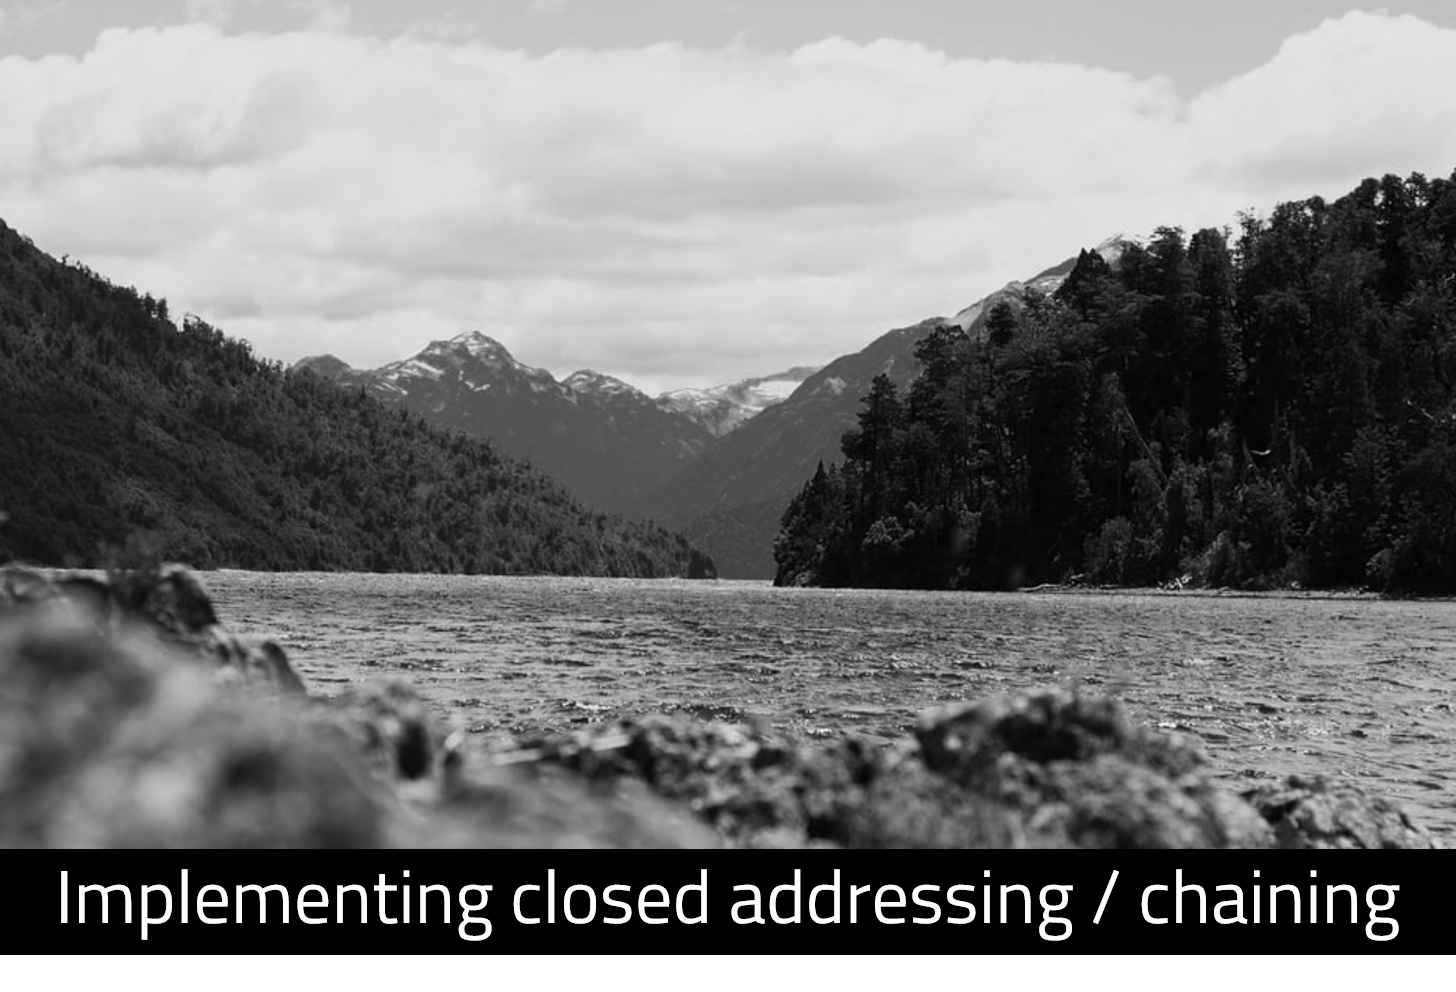
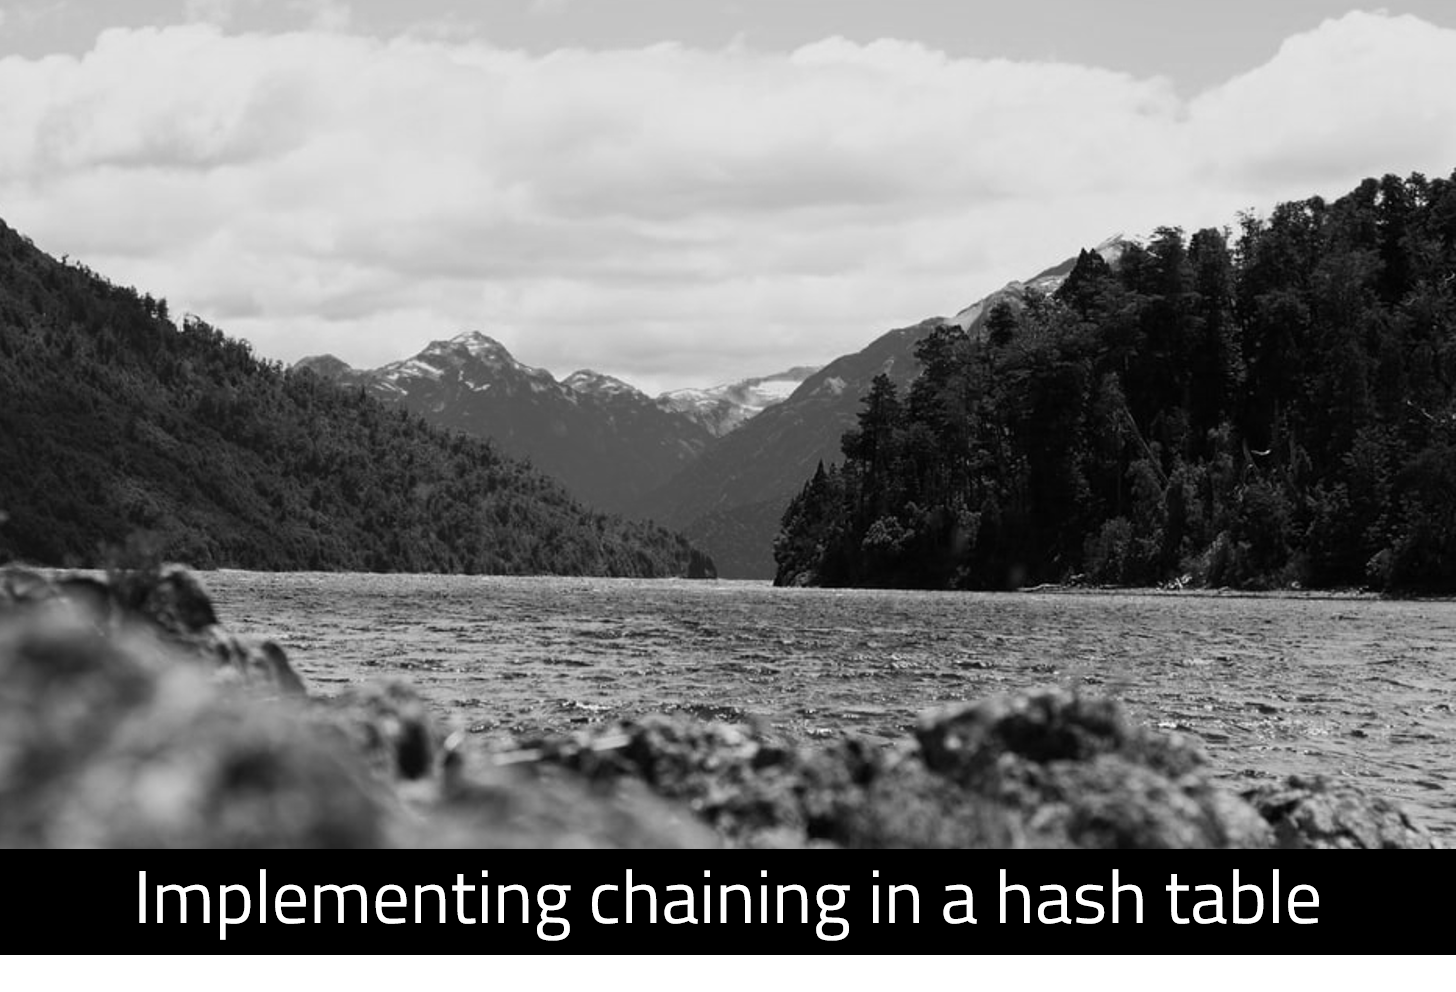
adding post 7

Changed region(s): [[0.0309, 0.875, 0.9581, 0.9688]]

diff --git a/src/posts/007_ChainingImplementation.md b/src/posts/007_ChainingImplementation.md
@@ -1,0 +1,257 @@
+---
+title: 'Implementing closed addressing'
+date: 2020-05-18 16:34:00
+author: 'Aneesh Mistry'
+featuredImage: ../images/007_Bariloche.png
+subtitle: 'A demonstration how a hash function can be designed and written to implement chaining / closed addressing'
+time: '8'
+tags:
+- Java
+- Data Structures
+---
+<br>
+<strong>Key Takeaways</strong><br>
+&#8226; Create a hash table that uses chaining to resolve hash collisions.<br>
+&#8226; Understand how get(), put() and remove() functions can work in the LinkedList.<br>
+
+<br>
+<h4>Chaining in a HashTable</h4>
+<p>
+Chaining, also known as closed addressing, is a technique used in with hash tables and has hash maps to efficiently store the value of keys that have the same hash value.
+Please visit my <a target="_blank" href="https://aneesh.co.uk/resolving-hash-collisions"><u>blog</u></a> where I explain how open and closed addressing works if you are unfamiliar with open and closed addressing.
+In this post, I will walk through the implementation of closed addressing whereby a hash table will allocate values into a LinkedList for each hash value collision.
+</p>
+
+<h4>Implementing chaining, step by step</h4>
+<p>
+The chained hash table will consist of two classes: <code class="language-java">ChainedHashTable</code>, which will be the hash table, and <code class="language-java">EntryLinkedList</code>, which will be the LinkedList Object appended to each bucket.<br>
+A top-down view of the implementation is below:<br>
+
+![Chained hash table diagram](../../src/images/007chainedDiagram.png)
+
+<br>
+The ChainedHashTable will have four methods:<br>
+&#8226; <strong>put(Key, Value)</strong> to place key-value pairs in the hash table.
+&#8226; <strong>hashFunction(Key)</strong> to calculate the hash value of the key.
+&#8226; <strong>remove(Key)</strong> to remove key-value pairs from the hash table.
+&#8226; <strong>get(Key)</strong> to obtain values from the hash table using the key.
+<br>
+The bucket at each hash table index will consist of a EntryLinkedList which behaves like a LinkedList, but will provide additional functionality for the hash table implementation.<br>
+EntryLinkedList will contain the variables: key (String), value (int) and nextEntryPosition (EntryLinkedList). <code class="language-java">nextEntryPosition</code> will be used to create additional values in each bucket.
+</p>
+<strong>Class: EntryLinkedList</strong>
+<p>
+
+The EntryLinkedList constructor will instantiate the key, value and nextEntryPosition.
+There are getters and setters for the value and nextEntryPosition, and getter for the key.<br>
+
+```java{numberLines: true}
+
+public class EntryLinkedList {
+
+    private String key;
+    private int value;
+    private EntryLinkedList nextEntryPosition;
+
+    EntryLinkedList(String key, int value){
+        this.key = key;
+        this.value = value;
+        this.nextEntryPosition = null;
+    }
+
+    public String getKey() {
+        return key;
+    }
+
+    public int getValue() {
+        return value;
+    }
+
+    public void setValue(int value) {
+        this.value = value;
+    }
+
+    public EntryLinkedList getNextEntryPosition() {
+        return nextEntryPosition;
+    }
+
+    public void setNextEntryPosition(EntryLinkedList nextEntryPosition) {
+        this.nextEntryPosition = nextEntryPosition;
+    }
+}
+
+```
+
+</p>
+<br>
+<strong>Class: ChainedHashTable</strong>
+<p>
+The ChainedHashTable will define the number of buckets in its array and instantiate each to be null.
+<br>
+
+```java{numberLines: true}
+  private static final int BUCKETS = 16;
+    EntryLinkedList[] entryList;
+
+    ChainedHashTable(){
+        entryList = new EntryLinkedList[BUCKETS];
+        for(int i = 0; i< BUCKETS; i++){
+            entryList[i] = null;
+        }
+    }
+```
+
+<br>
+The method hashFunction will be used to calculate the hash value of the key. The method will calculate the modulo for the ascii value of the String against the table size:<br>
+
+```java{numberLines: true}
+public static int hashFunction(String key){
+
+        int asciiValue = 0;
+
+        for(int i =0; i<key.length(); i++){
+            char c = key.charAt(i);
+            asciiValue = asciiValue + (int)c;
+        }
+       
+        int hashValue = Math.round(asciiValue % BUCKETS);
+
+        return hashValue;
+    }
+```
+<br>
+To add a new key and value into the hash table, the put(Key, Value) function is used.<br>
+In the code below, the hash value is calculated on line 2. An if statement will check if there already exists an EntryLinkedList Object in the hash value index of the array. <br>
+If there is no Object, it will create a new EntryLinkedList and populate its first position with the value (line 5). If there already exists an EntryLinkedList, the method will loop 
+over the existing list to either replace the value of the existing key (line 15), or define the next entry into the EntryLinkedList (line 18).
+
+```java{numberLines: true}
+ public void put(String key, int value){
+        int hashValue = hashFunction(key);
+
+        if(entryList[hashValue] == null){
+            entryList[hashValue] = new EntryLinkedList(key, value);
+        }
+        else{
+            EntryLinkedList hashValueList = entryList[hashValue];
+
+            while (hashValueList.getNextEntryPosition() != null && hashValueList.getKey() != key){
+                hashValueList = hashValueList.getNextEntryPosition();
+            }
+
+            if (hashValueList.getKey() == key) {
+                hashValueList.setValue(value);
+            }
+            else {
+                hashValueList.setNextEntryPosition(new EntryLinkedList(key, value));
+            }
+        }
+    }
+```
+<br>
+The get method will be used to obtain a value from the EntryLinkedList that is stored within the ChainedHashTable. The get method will return -1 if the key 
+is not found within the ChainedHashTable (line 4), otherwise it will loop over the EntryLinkedList and return the key if it is found (line 10).
+
+```java{numberLines: true}
+public int get(String key) {
+        int hashValue = hashFunction(key);
+        if (entryList[hashValue] == null) {
+            System.out.println("cannot find key");
+            return -1;
+        } else {
+            EntryLinkedList hashValueList = entryList[hashValue];
+            while (hashValueList.getNextEntryPosition() != null && hashValueList.getKey() != key) {
+                hashValueList = hashValueList.getNextEntryPosition();
+            }
+            if (hashValueList == null) {
+                return -1;
+            } else {
+                return hashValueList.getValue();
+            }
+        }
+    }
+```
+<br>
+The remove method will be used to remove a key from the EntryLinkedList. The method below will find the key in the ChainedHashTable, identify the previous entry in the LinkedList if it exists
+and then reassign the value of the current EntryLinkedList as what would have proceeded it:
+
+```java{numberLines: true}
+
+   public void remove(String key){
+        int hashValue = hashFunction(key);
+        if(entryList[hashValue] != null){
+            EntryLinkedList previousEntry = null;
+            EntryLinkedList hashValueList = entryList[hashValue];
+            while(hashValueList.getKey() != key && hashValueList.getNextEntryPosition() != null){
+                previousEntry = hashValueList;
+                hashValueList = hashValueList.getNextEntryPosition();
+            }
+            if(hashValueList.getKey() == key){
+                if(previousEntry == null){
+                    entryList[hashValue] = hashValueList.getNextEntryPosition();
+                }
+                else{
+                    previousEntry.setNextEntryPosition(hashValueList.getNextEntryPosition());
+                }
+            }
+        }
+    }
+
+```
+
+
+<br>
+<strong>Pulling it together in the main method</strong>
+<br>
+In the main class, the hash table is tested by creating an instance with entries. An additional method <code class="language-java">printEntryLinkedList()</code> is used to print out the entries in the hash table:
+
+```java{numberLines: true}
+public class Main {
+
+    public static void main(String[] args) {
+
+        ChainedHashTable a = new ChainedHashTable();
+
+        a.put("Alex", 47);
+        a.put("George", 80);
+        a.put("Phillip", 19);
+        a.put("Eliza", 97);
+
+        System.out.println("Printing the ChainedHashTable: ");
+        a.printEntryLinkedList();
+        a.remove("Phillip");
+
+        System.out.println("\nChainedHashTable without Phillip: ");
+        a.printEntryLinkedList();
+    }
+}
+
+```
+The output from the main class:
+
+```
+Printing the ChainedHashTable: 
+[hash value='1'key='George', value=80], null
+[hash value='2'key='Alex', value=47], [hash value='2'key='Phillip', value=19], null
+[hash value='5'key='Eliza', value=97], null
+
+ChainedHashTable without Phillip: 
+[hash value='1'key='George', value=80], null
+[hash value='2'key='Alex', value=47], null
+[hash value='5'key='Eliza', value=97], null
+```
+
+</p>
+
+<br>
+<h4>Conclusion</h4>
+<p>
+The implementation of chaining in a hash table can be implemented with just a few methods that cover its dictionary operations. The performance
+of the hash table will have constant time for the dictionary operations making it easier to find and store values.<br>
+The optimization of the hash table is dependent on the load factor that can be derived and therefore leaves room to customise the configuration with 
+consideration to the use case.<br>
+The source code from this blog can be found on GitHub <a target="_blank" href="https://github.com/4neesh/HashTableChainingDemo">here</a>.
+</p>
+
+<br>
+<small style="float: right;" >Picture: Bariloche, Argentina by <a target="_blank" href="https://unsplash.com/@ggiqueaux">Geronimo Giqueaux</small></a><br>

diff --git a/src/posts/005ResolvingHashConflicts.md b/src/posts/005ResolvingHashConflicts.md
@@ -8,7 +8,6 @@ time: '8'
 tags:
 - Data Structures
 - Java
-- Algorithms
 ---
 <br>
 <strong>Key Takeaways</strong><br>
@@ -32,7 +31,7 @@ Hash tables store data in a key-value pair that use a fast-access location known
 Hash functions provide a solution to direct-addressing by reducing the array size for storage, but keeping an appropriate number of open buckets to store values. Each entry will use the key as an input to a hash function which will produce the index position to the bucket that the value is stored in.<br>
 
 
-The hash function is defined by the <code class="language-java">public int hashCode()</code> method of the key. The example below demonstrates how a key-value pair of {String, Integer} can be placed within a hash table; H({key}) is read as "hash of {key}" and describes the use of the hash function to obtain the index position.<br>
+The hash function is defined by the <code class="language-java">public int hashCode()</code> method of the key. The example below demonstrates how a key-value pair of peoples names and age {String, Integer} can be placed within a hash table; H({key}) is read as "hash of {key}" and describes the use of the hash function to obtain the index position.<br>
 
 ![hash table visualisation](../../src/images/005HashTable.png)
 
